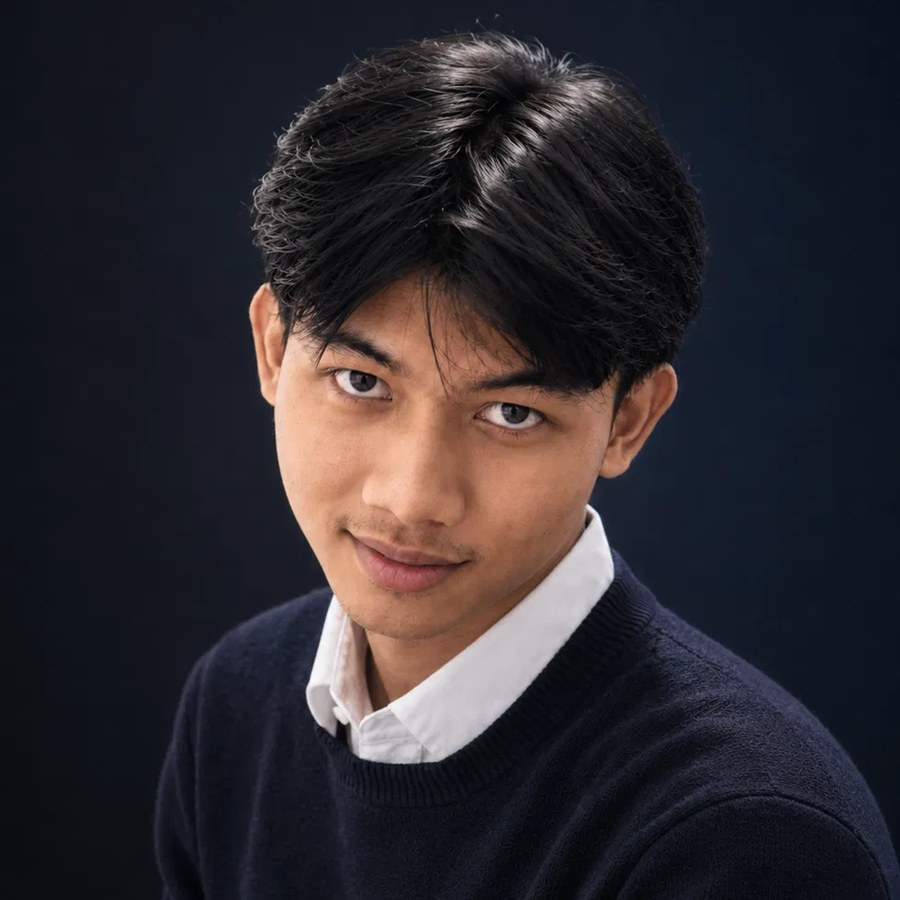
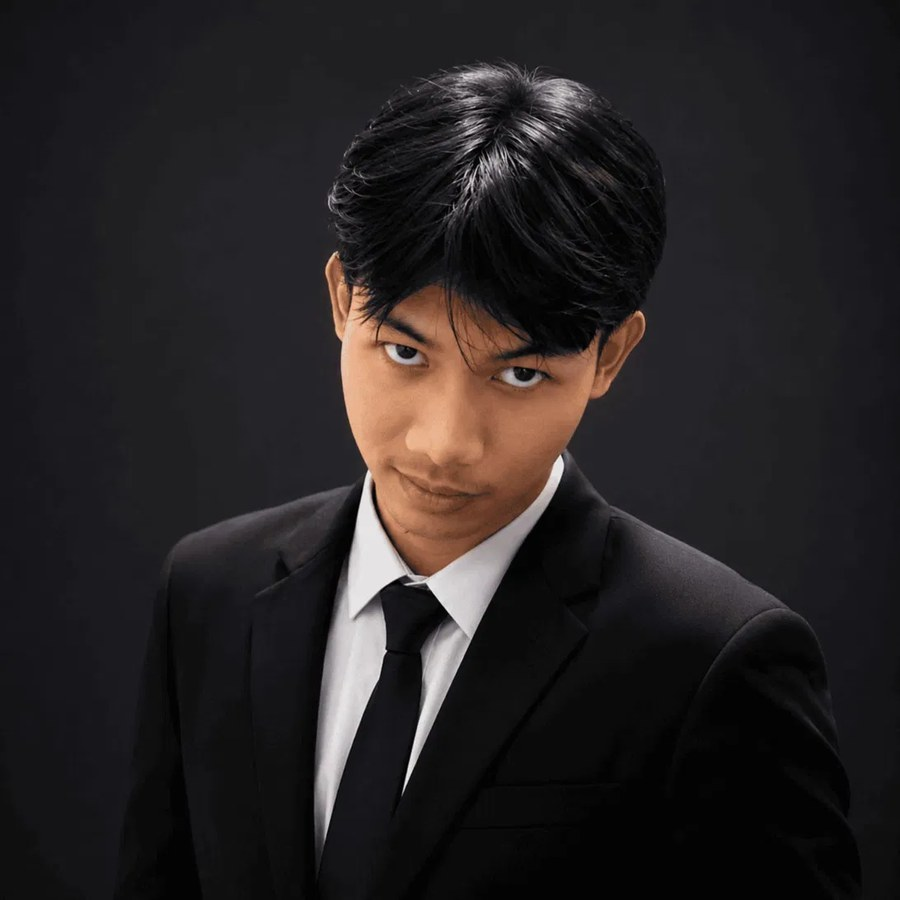
Foto Hero jas + About ngajar

Changed region(s): [[0.1556, 0.0311, 1.0, 1.0]]

diff --git a/index.html b/index.html
@@ -210,8 +210,8 @@
     <div class="about-grid">
       <div class="about-img-col">
         <div class="about-img-wrap">
-          <img src="assets/images/mufti-about.jpg" alt="Mufti Arifudin Taqy, Full Stack Developer" class="about-img" loading="lazy"/>
-          <div class="about-img-badge"><i class="fas fa-earth-americas"></i><span>20+ Countries</span></div>
+          <img src="assets/images/mufti-about.jpg" alt="Mufti mentoring students in a coding class" class="about-img" loading="lazy"/>
+          <div class="about-img-badge"><i class="fas fa-chalkboard-user"></i><span>163+ Students Trained</span></div>
         </div>
       </div>
       <div class="about-text-col">

diff --git a/style.css b/style.css
@@ -1267,4 +1267,4 @@ header, .header, #header { backdrop-filter: saturate(180%) blur(20px); -webkit-b
   html { scroll-behavior:auto; }
 }
 
-.about-img { object-position: center 18%; }
+.about-img { object-position: center 35%; }
